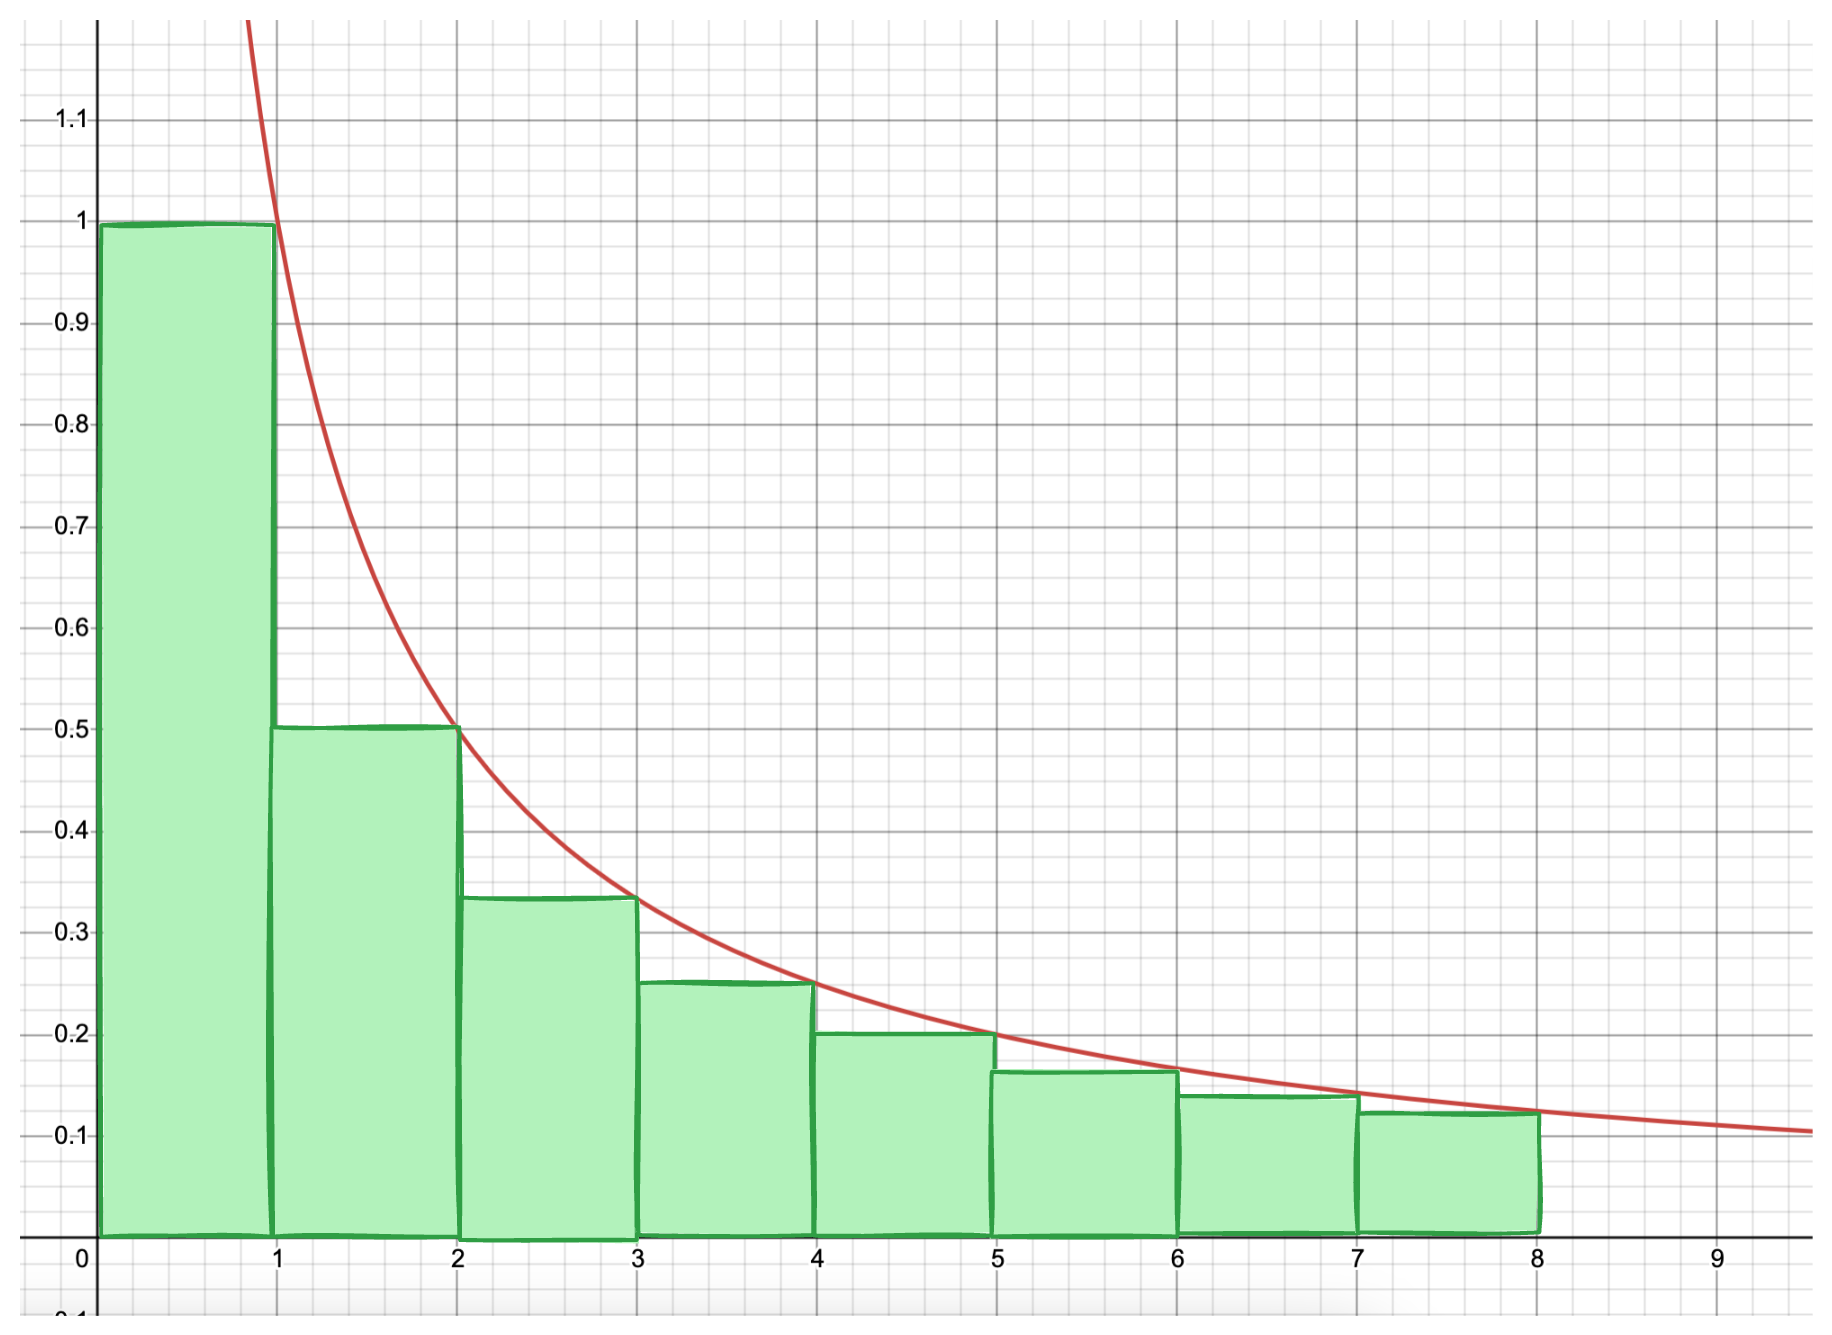
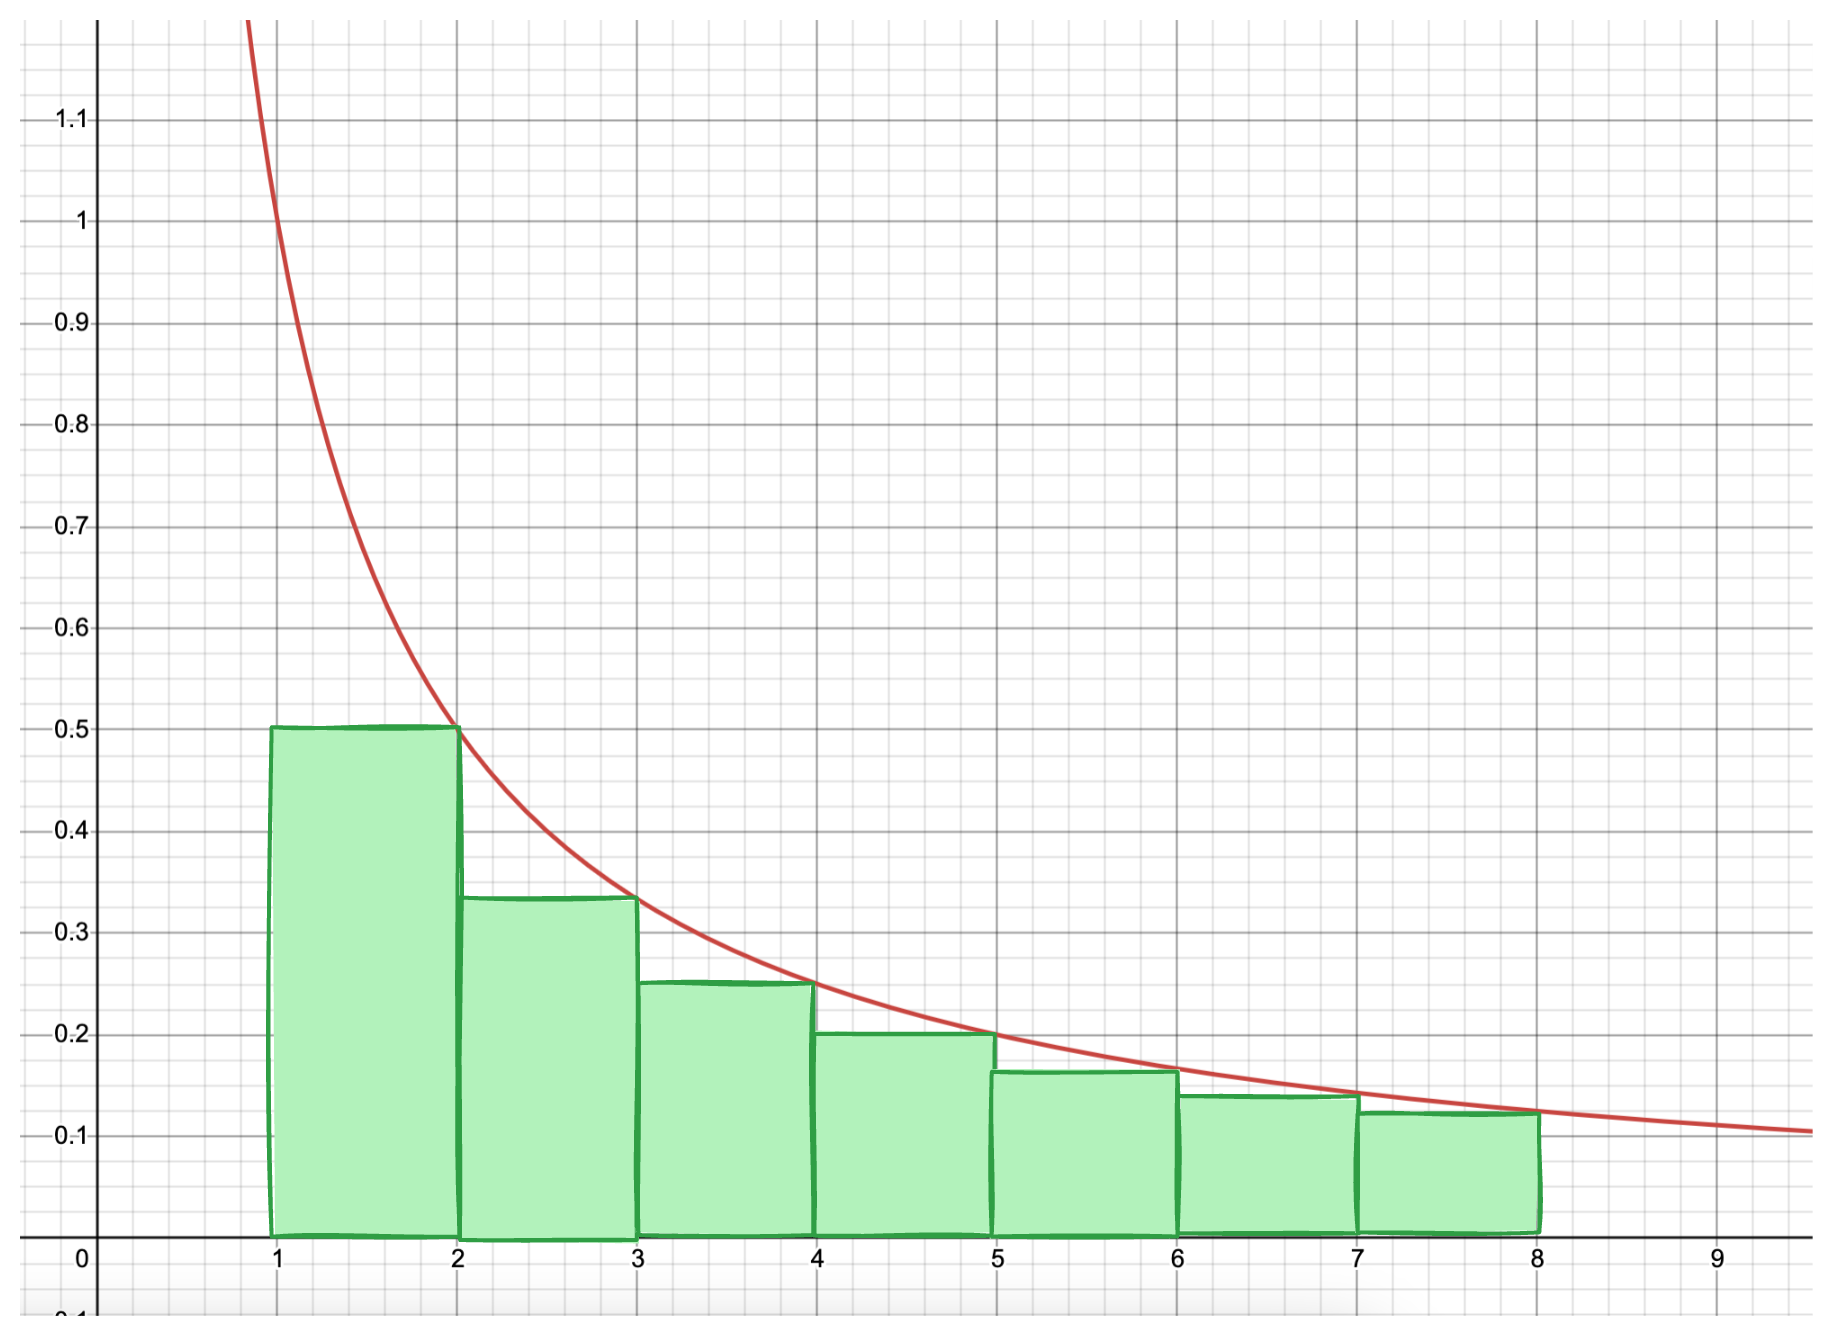
Update integral argument on LoE notes

Changed region(s): [[0.0311, 0.1536, 0.1556, 0.9521]]

diff --git a/content/Excalidraw/bounding-reciprocal.md b/content/Excalidraw/bounding-reciprocal.md
@@ -15,36 +15,36 @@ tags: [excalidraw]
 %%
 ## Drawing
 ```compressed-json
[2 lines of base64/hex data omitted]
 
[2 lines of base64/hex data omitted]
 
[2 lines of base64/hex data omitted]
 
[2 lines of base64/hex data omitted]
 
[2 lines of base64/hex data omitted]
 
[2 lines of base64/hex data omitted]
 
[2 lines of base64/hex data omitted]
 
[2 lines of base64/hex data omitted]
 
[2 lines of base64/hex data omitted]
 
[2 lines of base64/hex data omitted]
 
[2 lines of base64/hex data omitted]
 
[2 lines of base64/hex data omitted]
 
[2 lines of base64/hex data omitted]
 
[2 lines of base64/hex data omitted]
 
[2 lines of base64/hex data omitted]
 
[2 lines of base64/hex data omitted]
 ```
 %%

diff --git a/content/linearity-of-expectation.md b/content/linearity-of-expectation.md
@@ -356,16 +356,16 @@ $$
 \begin{align}
 \mathbb{E}[C] &= \sum_{i = 1}^{n - 1} \sum_{j = i + 1}^n  \Pr[C_{i, j} = 1] = \sum_{i = 1}^{n - 1} \sum_{j = i + 1}^n \frac{2}{(j - i + 1)}\\
 &= \sum_{i = 1}^{n - 1} \sum_{k = 2}^{n - i + 1} \frac{2}{k}\\
-&\leq \sum_{i = 1}^{n - 1} \sum_{k = 1}^{n} \frac{2}{k}\\
+&\leq \sum_{i = 1}^{n - 1} \sum_{k = 2}^{n} \frac{2}{k}\\
 &\leq \sum_{i = 1}^{n - 1} 2(\ln(n) + O(1))\\
 &\leq 2\ln(n) + O(n)\\
 \end{align}
 $$
 
-where on the first line we use the fact that we're summing $\frac{2}{2} + \frac{2}{3} + \frac{2}{4} + \dots + \frac{2}{n - i + 1}$, so we might as well just change the variable to $k$ such that it ranges from $2$ to $n - i + 1$ in the denominator. Then summing from $2$ to $n - i + 1$ gives us fewer positive terms than if we just summed from $1$ to $n$, so the next line is an upper bound. Now, to see that it is $\ln(n)$, we use the following idea:
+where on the first line we use the fact that we're summing $\frac{2}{2} + \frac{2}{3} + \frac{2}{4} + \dots + \frac{2}{n - i + 1}$, so we might as well just change the variable to $k$ such that it ranges from $2$ to $n - i + 1$ in the denominator. Then summing from $2$ to $n - i + 1$ gives us fewer positive terms than if we just summed from $2$ to $n$, so the next line is an upper bound. Now, to see that it is $\ln(n)$, we use the following idea:
 
 ![[Images/bounding-reciprocal.png]]
 
-The red line plots the $y = \frac{1}{x}$ function. So the area under the curve is an over-approximation of adding $\frac{1}{i}$ for values $i$ from $1$ up to $x$. In other words, we can just integrate $\frac{1}{x}$ to get $\ln(x) + C$. Since we're summing up to $n$, this means that it's at most $\ln(n) + C$. Here in CS we call $C$ as $O(1)$.
+The red line plots the $y = \frac{1}{x}$ function. So the area under the curve is an over-approximation of adding $\frac{1}{i}$ for values $i$ from $1$ up to $x$. Thus the integral of $\frac{1}{x}$ from $x = 2$ to $n$ is at most $\ln(n)$.
 
 So! We've shown that the **expected running time** of randomised quicksort is $O(n\ln(n))$ (or $O(n \log(n))$, if you know that you can change bases between $\ln$ and $\log_2$ with a constant factor multiplication).